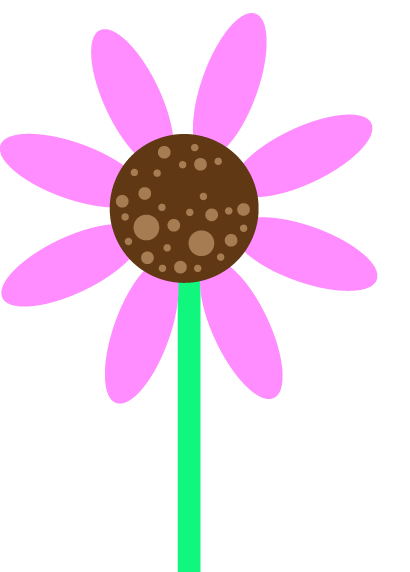
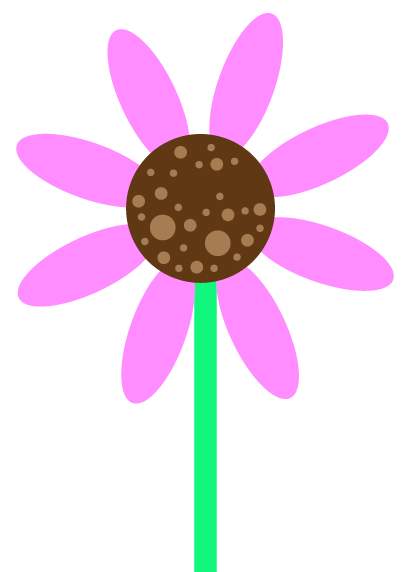
code for milestone 2 (Almost MVP)

diff --git a/script.js b/script.js
@@ -1,3 +1,7 @@
+let titleText = document.getElementById('titleText');
+
+setTimeout(() => {titleText.innerHTML = "CLICK ON THE ORANGE FLOWER TO COLLECT ITS POLLEN"}, 2000);
+
 let bumbleBee = document.getElementById('bumbleBee');
 
 const onMouseMove = (e) =>{
@@ -6,14 +10,26 @@ const onMouseMove = (e) =>{
 }
 document.addEventListener('mousemove', onMouseMove);
 
-let titleText = document.getElementById('titleText');
-
 let orangeFlower = document.getElementById('orangeFlower');
 
 let orangeCounter = 0;
 let pinkCounter = 0;
 
 orangeFlower.addEventListener('click', () => {
+    if(orangeCounter === 0) {
+        document.getElementById("orangeImg").src="orangeFlower2.png";
+        titleText.innerHTML = "BEES COLLECT POLLEN BECAUSE ... ";
+    }
+    else if(orangeCounter === 1) {
+        document.getElementById("orangeImg").src="orangeFlower3.png";
+    }
+    else if(orangeCounter === 2) {
+        document.getElementById("orangeImg").src="orangeFlower4.png";
+    }
+    else if(orangeCounter === 3) {
+        document.getElementById("orangeImg").src="orangeFlower5.png";
+        titleText.innerHTML = "CLICK ON THE PINK FLOWER TO DISTRIBUTE THE POLLEN";
+    }
     orangeCounter++;
     console.log("orange counter", orangeCounter);
 })
@@ -21,9 +37,9 @@ orangeFlower.addEventListener('click', () => {
 let pinkFlower = document.getElementById('pinkFlower');
 
 pinkFlower.addEventListener('click', () => {
-    titleText.innerHTML = "PINK FLOWER CLICKED";
     if(pinkCounter === 0) {
         document.getElementById("pinkImg").src="pinkFlower2.png";
+        titleText.innerHTML = "BEES DISTRIBUTE POLLEN BECAUSE ... ";
     }
     else if(pinkCounter === 1) {
         document.getElementById("pinkImg").src="pinkFlower3.png";
@@ -33,6 +49,17 @@ pinkFlower.addEventListener('click', () => {
     }
     else if(pinkCounter === 3) {
         document.getElementById("pinkImg").src="pinkFlower5.png";
+        titleText.innerHTML = "WATCH THE NEW FLOWERS GROW BECAUSE OF THE POLLINATION";
+
+        
+        setTimeout(() => {
+            let purpleFlower = document.getElementById('purpleFlower');
+            purpleFlower.style.visibility = "visible";
+            let redFlower = document.getElementById('redFlower');
+            redFlower.style.visibility = "visible";
+        }, 1000);
+        
+        
     }
     pinkCounter++;
     console.log("pink counter", pinkCounter);

diff --git a/styles.css b/styles.css
@@ -22,6 +22,18 @@ div{
     bottom: -300px;
 }
 
+#redFlower {
+    position: absolute;
+    left: 525px;
+    bottom: -300px;
+}
+
+#purpleFlower {
+    position: absolute;
+    right: 200px;
+    bottom: -300px;
+}
+
 #pinkFlower {
     position: absolute;
     right: -100px;
@@ -31,10 +43,5 @@ div{
   @media (max-width: 900px) {
     #titleText {
         font-size: 1.5em;
-    }
-
-    #pinkFlower {
-        width: 200px;
-        height: auto; 
     }
 }

diff --git a/index.html b/index.html
@@ -19,5 +19,13 @@
         <div id="pinkFlower">
             <img id="pinkImg" src="pinkFlower.png" alt="Pink Flower">
         </div>
+
+        <div id="purpleFlower" style="visibility: hidden;">
+            <img id="purpleImg" src="purpleFlower.png" alt="Pink Flower">
+        </div>
+
+        <div id="redFlower" style="visibility: hidden;">
+            <img id="redImg" src="redFlower.png" alt="Pink Flower">
+        </div>
     </body>
 </html>
